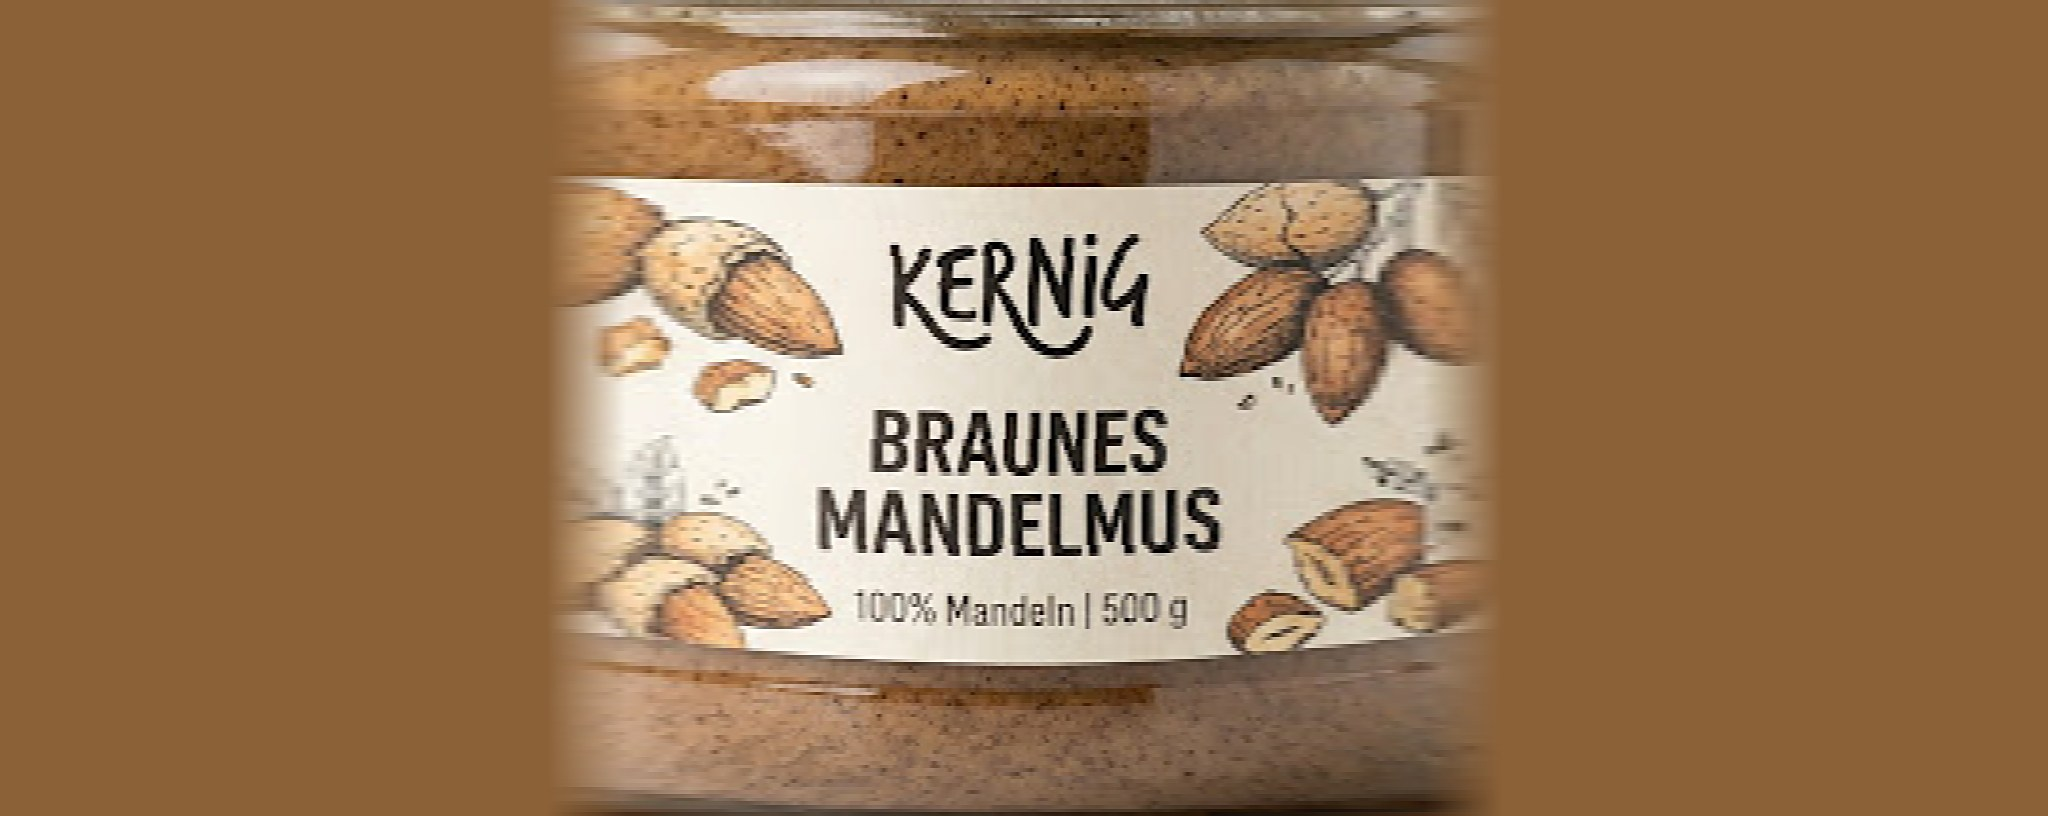
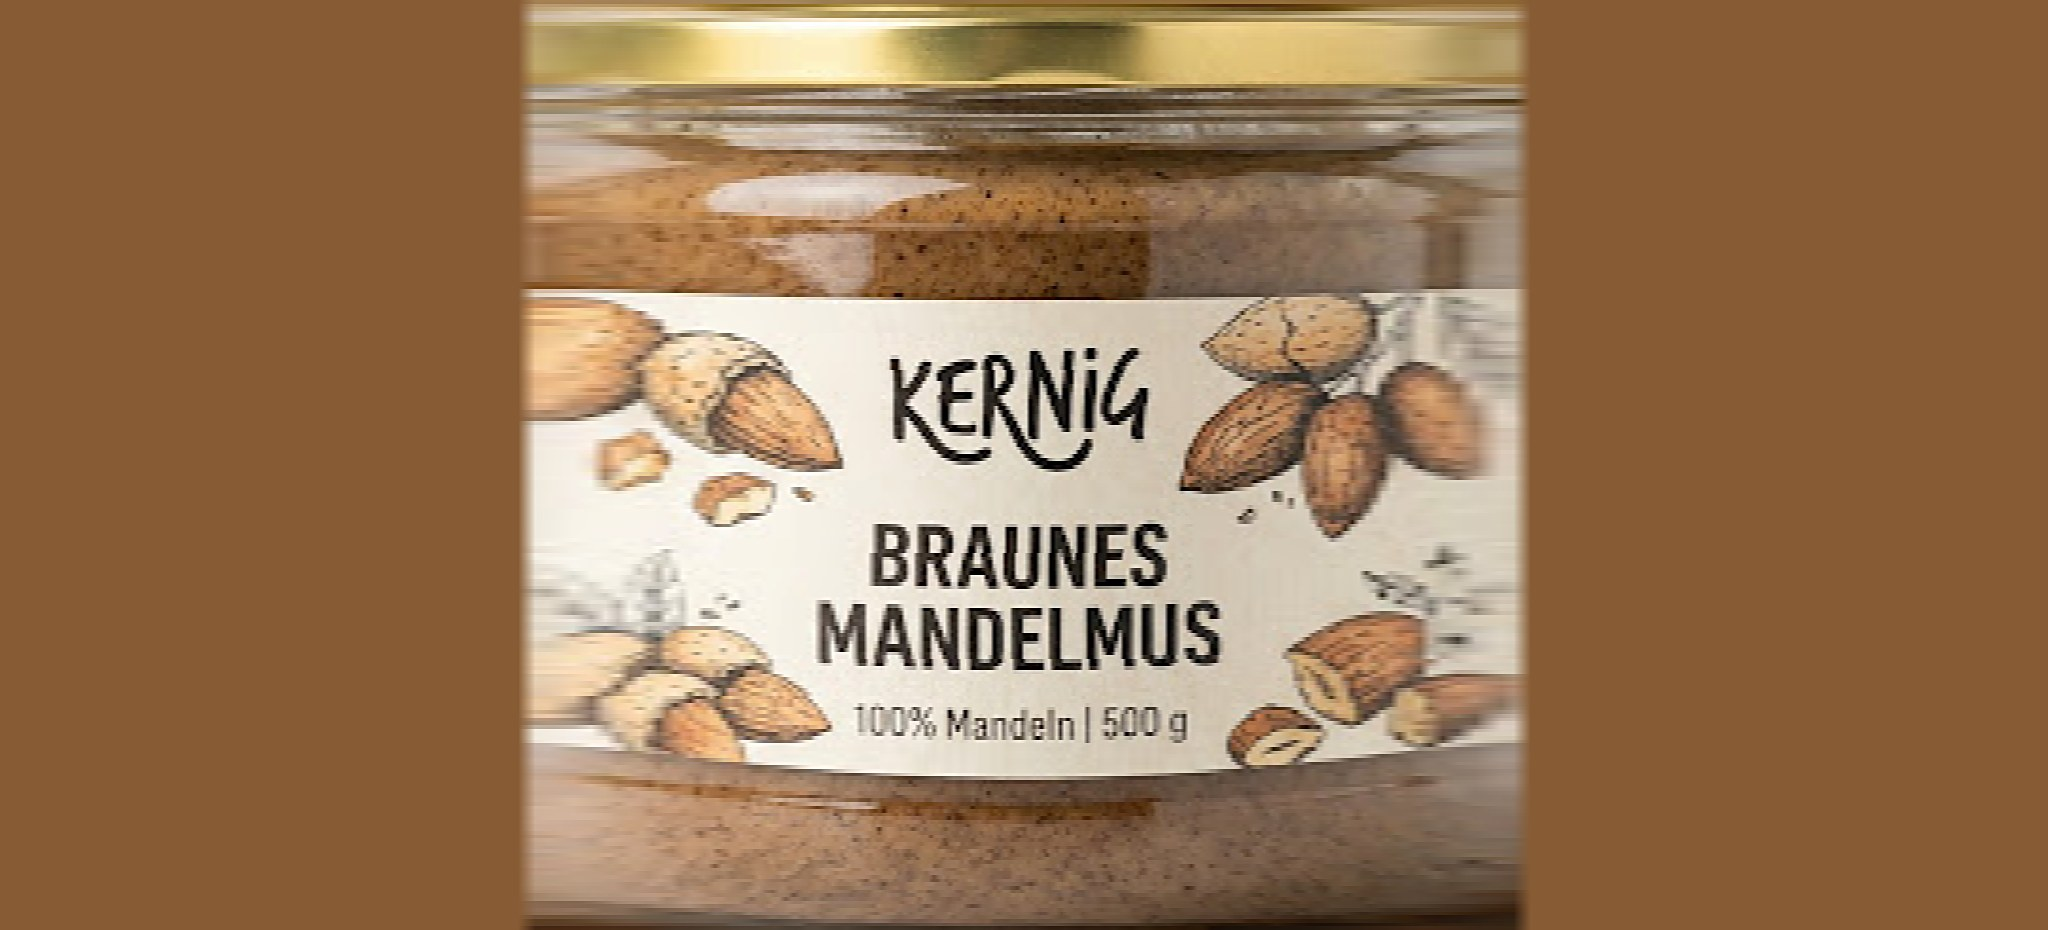
Wrap whole jar incl. photographed lid; jars no longer spin while scrolling
Claude-Session: https://claude.ai/code/session_01RGSrNcEK8hGVbPLP7BeAmG

diff --git a/glas-shop/index.html b/glas-shop/index.html
@@ -76,10 +76,9 @@ button:focus-visible,.jar:focus-visible{outline:2px solid var(--ring);outline-of
   <div class="row"><b id="dPrice"></b><button id="close">Schließen</button><button id="buy">In den Warenkorb</button></div>
 </div></aside>
 
-<script type="importmap">{"imports":{"three":"https://cdn.jsdelivr.net/npm/three@0.160.0/build/three.module.js","three/addons/":"https://cdn.jsdelivr.net/npm/three@0.160.0/examples/jsm/"}}</script>
+<script type="importmap">{"imports":{"three":"https://cdn.jsdelivr.net/npm/three@0.160.0/build/three.module.js"}}</script>
 <script type="module">
 import * as THREE from 'three';
-import {RoomEnvironment} from 'three/addons/environments/RoomEnvironment.js';
 const P=[ // img, name, tag, price, text
  ["weiss","Weißes Mandelmus","100 % Mandeln · 500 g","12,90 €","Blanchierte Mandeln, langsam gemahlen. Mild, cremig, ideal für Porridge und Dressings."],
  ["erdnuss","Erdnussmus","100 % Erdnüsse · 500 g","7,90 €","Geröstete Erdnüsse, sonst nichts. Kein Palmöl, kein Zucker, kein Salz."],
@@ -92,22 +91,15 @@ const canvas=document.getElementById('gl'),plinth=document.getElementById('plint
 const renderer=new THREE.WebGLRenderer({canvas,alpha:true,antialias:true});
 renderer.setPixelRatio(Math.min(devicePixelRatio,2));renderer.outputColorSpace=THREE.SRGBColorSpace;
 const scene=new THREE.Scene(),camera=new THREE.PerspectiveCamera(30,1,10,20000);
-scene.environment=new THREE.PMREMGenerator(renderer).fromScene(new RoomEnvironment(),.04).texture;
 const meta=await (await fetch('img/meta.json')).json(),loader=new THREE.TextureLoader();
-const gold=new THREE.MeshStandardMaterial({color:0xe8c97c,metalness:1,roughness:.22,envMapIntensity:1.7,side:THREE.DoubleSide});
-const gloss=new THREE.MeshStandardMaterial({color:0x000000,roughness:.12,blending:THREE.AdditiveBlending,transparent:true,depthWrite:false,envMapIntensity:1.4});
-
-function buildJar(key){ // body shape = the photo's own silhouette, so the wrapped label lines up exactly
+function buildJar(key){ // whole jar = the photo wrapped on its own silhouette: real lid, real glass, geometric (clean) edges
   const m=meta[key],pts=m.profile.map(([r,y])=>new THREE.Vector2(r,y));pts.unshift(new THREE.Vector2(0,0));
-  const top=pts[pts.length-1].y,body=new THREE.LatheGeometry(pts,96,Math.PI);
-  const pos=body.attributes.position,uv=body.attributes.uv;for(let i=0;i<uv.count;i++)uv.setY(i,pos.getY(i)/top); // v by height, not by point index
+  const top=pts[pts.length-1].y;pts.push(new THREE.Vector2(0,top));
+  const geo=new THREE.LatheGeometry(pts,128,Math.PI),p=geo.attributes.position,uv=geo.attributes.uv;
+  for(let i=0;i<uv.count;i++)uv.setY(i,Math.min(p.getY(i)/top,.999)); // v by height, not by point index
   const tex=loader.load(`img/${key}-wrap.jpg`);tex.colorSpace=THREE.SRGBColorSpace;tex.anisotropy=8;
-  const g=new THREE.Group();
-  g.add(new THREE.Mesh(body,new THREE.MeshBasicMaterial({map:tex}))); // photo already carries its studio lighting
-  const shell=new THREE.Mesh(body,gloss);shell.scale.setScalar(1.004);g.add(shell); // live reflections on top
-  const r=m.lidW/2,h=m.lid,lid=new THREE.LatheGeometry([[0,h],[r*.9,h],[r*.99,h*.92],[r,h*.75],[r,h*.12],[r*.97,0],[r*.9,0]].map(([x,y])=>new THREE.Vector2(x,y)),96);
-  const l=new THREE.Mesh(lid,gold);l.position.y=top-.02;g.add(l);
-  g.children.forEach(c=>c.position.y-=(top+h)/2);return g}
+  const mesh=new THREE.Mesh(geo,new THREE.MeshBasicMaterial({map:tex}));mesh.position.y=-top/2;
+  const g=new THREE.Group();g.add(mesh);return g}
 const jars=[...Array(N)].map((_,k)=>{const g=buildJar(P[k%P.length][0]);g.userData={k,hover:0,tilt:(k*37%13-6)/60};scene.add(g);return g});
 
 let W,H,R,cy,jw,STEP,pos=0,target=0,vel=0,hovered=null;
@@ -125,7 +117,7 @@ function frame(t){
     const s=jw*(1-Math.min(Math.abs(a)*.12,.4))*(1+u.hover*.06);
     g.position.set(R*Math.sin(ang),H/2-cy+R*Math.cos(ang)+u.hover*12,-Math.abs(a)*120);
     g.scale.setScalar(s);
-    g.rotation.set(.1,-a*.35-vel*25+Math.sin(t/1400+i)*.12+u.hover*.3,-ang*2.2+u.tilt*Math.min(Math.abs(a),1));
+    g.rotation.set(0,0,-ang*1.6+u.tilt*Math.min(Math.abs(a),1)); // jars face front; only the arc tilts them
     g.visible=Math.abs(a)<3.2});
   renderer.render(scene,camera);requestAnimationFrame(frame)}
 

diff --git a/glas-shop/img/unwrap.py b/glas-shop/img/unwrap.py
@@ -1,22 +1,21 @@
-# Each cut-out jar photo -> (1) 360° wrap texture for a lathe body, (2) the jar's real silhouette profile, so texture and 3D shape line up row by row
+# Whole jar incl. lid: each cut-out jar photo -> (1) 360° wrap texture for a lathe body, (2) the jar's real silhouette profile, so texture and 3D shape line up row by row
 import sys,json,numpy as np
 from PIL import Image,ImageFilter
 D=sys.argv[1];meta={}
 for k in ['weiss','braun','erdnuss','pumpkin','schoko']:
     im=Image.open(f'{D}/{k}.png').convert('RGBA');A=np.asarray(im).astype(float);a=A[...,3]
     h,w=a.shape;rows=(a>128).sum(1);widest=rows.max()
-    top=int(np.argmax(rows>0));L=int(.3*h);band=rows[top:top+L];s=int(L*.25)
-    neck=top+s+int(np.argmin(band[s:]))
+    top=int(np.argmax(rows>widest*.3));neck=top  # start at the lid: the photo's own lid looks real, a modelled one doesn't
     bot=h-1-int(np.argmax(rows[::-1]>widest*.3))
     bh=bot-neck;scale=widest
     TW=2048;TH=int(TW/np.pi*bh/widest)
-    patch=A[neck+int(bh*.05):neck+int(bh*.15),w//2-widest//5:w//2+widest//5,:3].reshape(-1,3);fill=np.median(patch,0)
+    patch=A[neck+int(bh*.2):neck+int(bh*.28),w//2-widest//5:w//2+widest//5,:3].reshape(-1,3);fill=np.median(patch,0)
     rgb=A[...,:3]*(a[...,None]/255)+fill*(1-a[...,None]/255)
     lr=[]
     for y in range(h):
         xs=np.where(a[y]>128)[0];lr.append((xs[0]+1.5,xs[-1]-1.5) if len(xs)>3 else (w/2,w/2))
-    th=(np.arange(TW)/TW-.5)*2*np.pi;lim=np.radians(84)
-    wgt=np.clip((lim-np.abs(th))/np.radians(14),0,1);sn=.5+.5*np.sin(np.clip(th,-lim,lim))
+    th=(np.arange(TW)/TW-.5)*2*np.pi;lim=np.radians(89)
+    wgt=np.clip((lim-np.abs(th))/np.radians(3),0,1);sn=.5+.5*np.sin(np.clip(th,-lim,lim))
     out=np.zeros((TH,TW,3))
     for r in range(TH):
         y=neck+(r+.5)/TH*bh;y0=int(y);l,rr=lr[min(y0,h-1)]
@@ -25,8 +24,8 @@ for k in ['weiss','braun','erdnuss','pumpkin','schoko']:
         out[r]=row*wgt[:,None]+fill*(1-wgt[:,None])
     Image.fromarray(out.clip(0,255).astype('uint8')).filter(ImageFilter.UnsharpMask(2,50,2)).save(f'{D}/{k}-wrap.jpg',quality=88)
     prof=[]  # [radius, height] in jar-width units, bottom -> neck
-    for i in range(41):
-        y=bot-i/40*bh;l,rr=lr[int(y)];prof.append([round(max(rr-l,0)/scale/2,4),round(i/40*bh/scale,4)])
-    meta[k]={'profile':prof,'lid':round((neck-top)/scale,3),'lidW':round(rows[top+2:neck].max()/scale,3),'fill':'#%02x%02x%02x'%tuple(int(v) for v in fill)}
-    print(k,TH,meta[k]['lid'],meta[k]['lidW'],prof[0],prof[20],prof[-1])
+    for i in range(81):
+        y=bot-i/80*bh;l,rr=lr[int(y)];prof.append([round(max(rr-l,0)/scale/2,4),round(i/80*bh/scale,4)])
+    meta[k]={'profile':prof,'fill':'#%02x%02x%02x'%tuple(int(v) for v in fill)}
+    print(k,TH)
 json.dump(meta,open(f'{D}/meta.json','w'))
